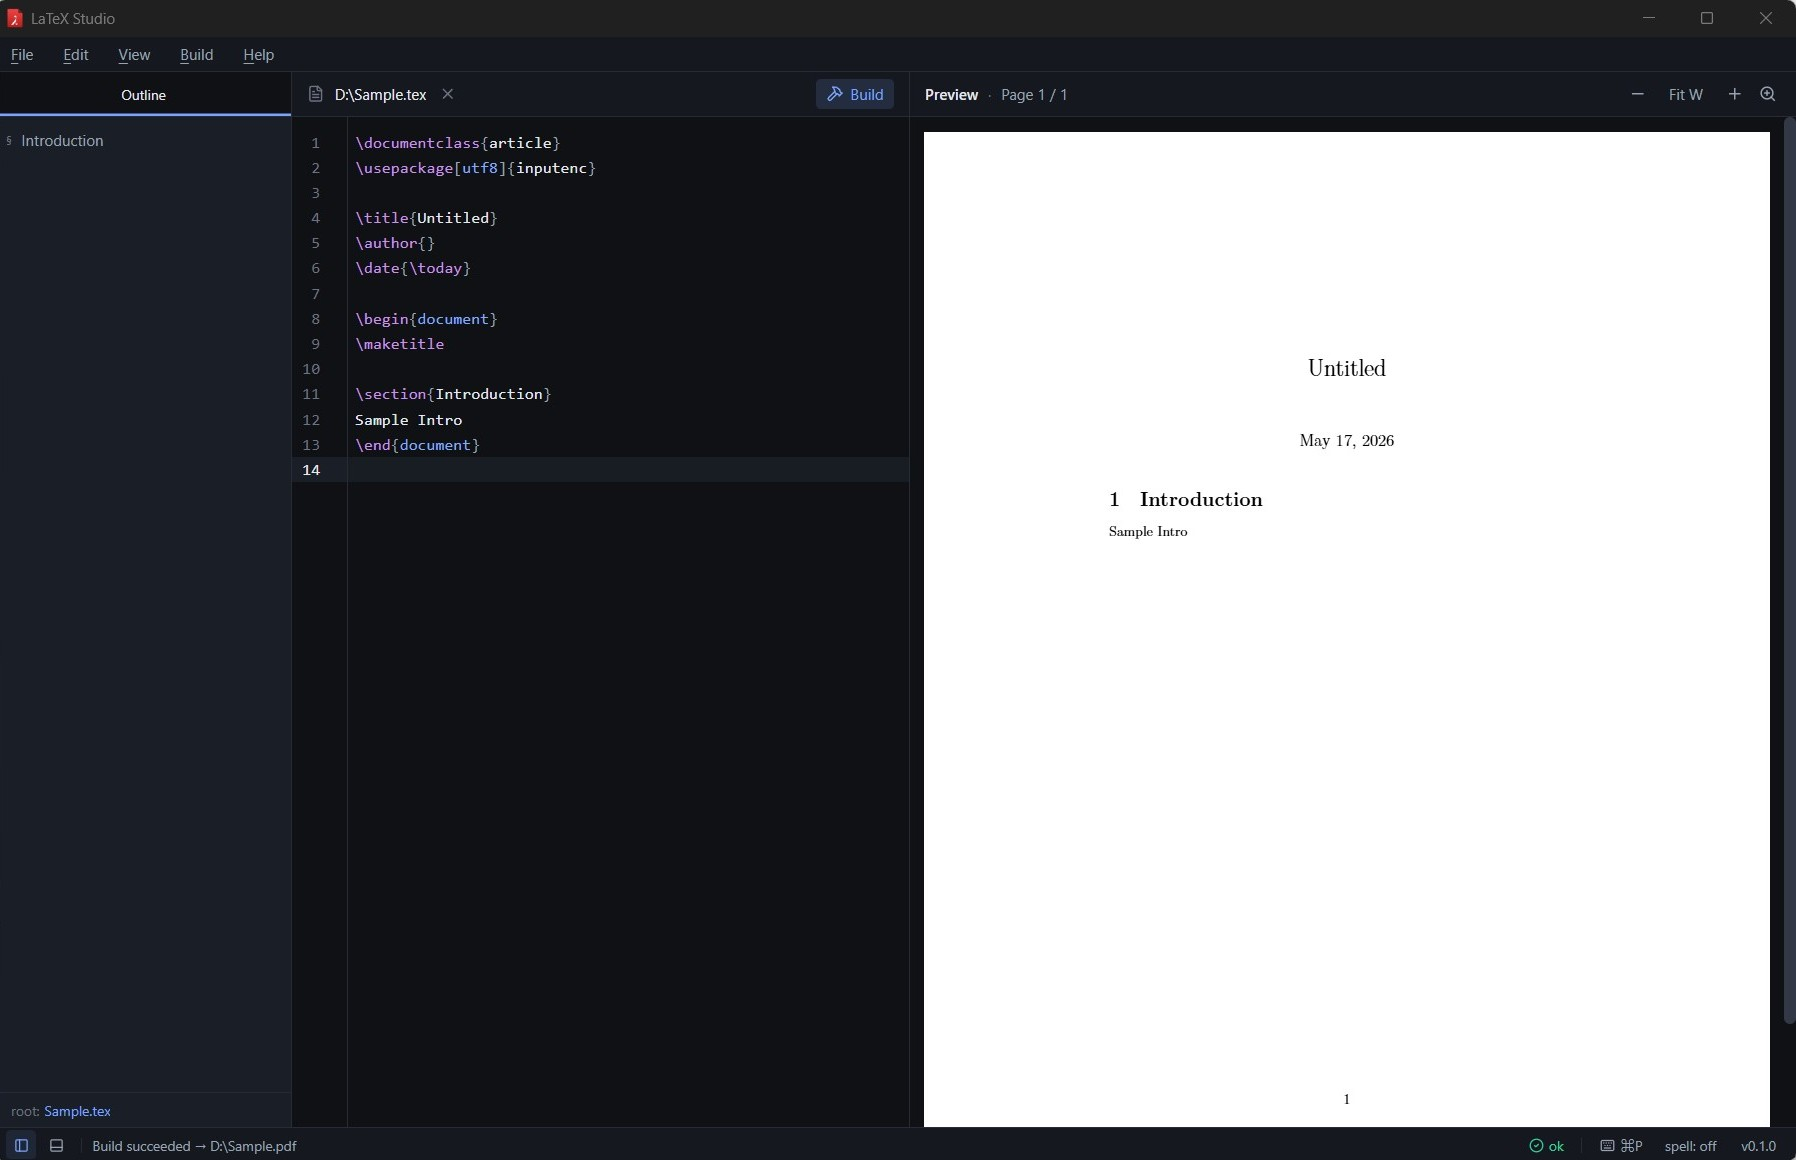
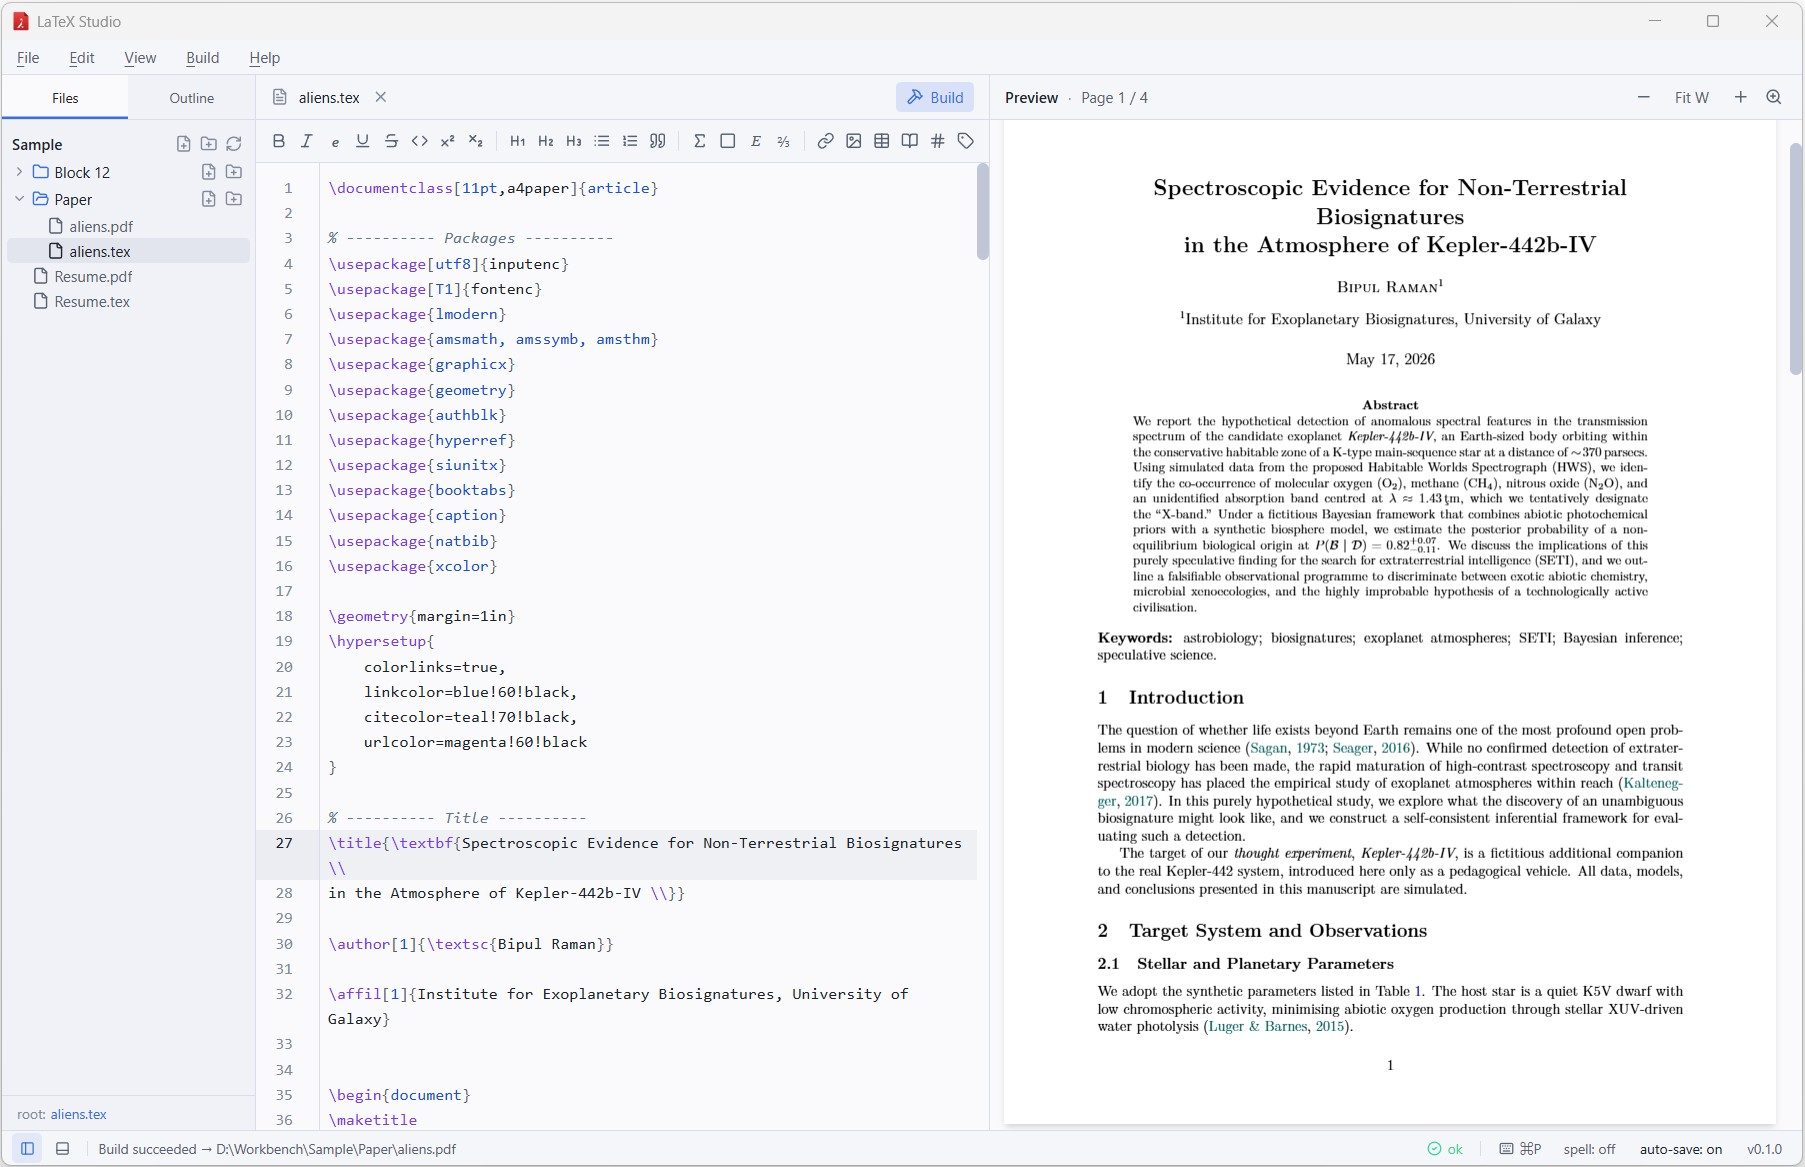
feat: update index.html to enhance description and highlight new features

diff --git a/docs/index.html b/docs/index.html
@@ -6,7 +6,7 @@
     <title>LaTeX Studio — A modern desktop LaTeX editor</title>
     <meta
       name="description"
-      content="LaTeX Studio is a fast, distraction-free desktop LaTeX editor for Windows, macOS and Linux — with built-in PDF preview, SyncTeX, outline navigation, spellcheck, and one-click Tectonic install. Local-first, no telemetry, MIT licensed."
+      content="LaTeX Studio is a fast, distraction-free desktop LaTeX editor for Windows, macOS and Linux — with auto-save, live PDF preview, SyncTeX, a one-click formatting toolbar, outline navigation, spellcheck, polished light &amp; dark themes, and one-click Tectonic install. Local-first, no telemetry, MIT licensed."
     />
     <meta name="author" content="Bipul Raman" />
     <meta name="theme-color" content="#0b0d12" media="(prefers-color-scheme: dark)" />
@@ -15,7 +15,7 @@
     <meta property="og:title" content="LaTeX Studio — A modern desktop LaTeX editor" />
     <meta
       property="og:description"
-      content="Fast, distraction-free desktop LaTeX editor with built-in PDF preview, SyncTeX, outline, and one-click Tectonic install. Local-first, MIT licensed."
+      content="Fast, distraction-free desktop LaTeX editor with auto-save, live PDF preview, SyncTeX, a one-click formatting toolbar, light &amp; dark themes, and one-click Tectonic install. Local-first, MIT licensed."
     />
     <meta property="og:type" content="website" />
     <meta property="og:image" content="./Screenshot.jpg" />
@@ -333,9 +333,9 @@
 
           <p class="mt-6 max-w-2xl mx-auto text-base sm:text-lg leading-relaxed" style="color: var(--fg-muted)">
             LaTeX Studio is a modern, native editor for writing and compiling LaTeX
-            on Windows, macOS and Linux — with a built-in PDF preview, SyncTeX,
-            outline view and one-click Tectonic install. Local-first, no accounts,
-            no telemetry.
+            on Windows, macOS and Linux — with auto-save, live PDF preview, SyncTeX,
+            a one-click formatting toolbar, polished light &amp; dark themes, and
+            one-click Tectonic install. Local-first, no accounts, no telemetry.
           </p>
 
           <div class="mt-9 flex flex-wrap items-center justify-center gap-3">
@@ -361,13 +361,7 @@
 
         <div class="max-w-7xl mx-auto px-6 pb-20 md:pb-28">
           <div class="tilt-wrap">
-            <div id="heroShot" class="tilt relative rounded-xl overflow-hidden ring-soft ring-accent">
-              <div class="hidden sm:flex items-center gap-1.5 px-4 h-9 border-b hairline" style="background: var(--bg-elev)">
-                <span class="h-3 w-3 rounded-full" style="background:#ff5f57"></span>
-                <span class="h-3 w-3 rounded-full" style="background:#febc2e"></span>
-                <span class="h-3 w-3 rounded-full" style="background:#28c840"></span>
-                <span class="ml-3 text-xs font-mono" style="color: var(--fg-subtle)">latex-studio · untitled.tex</span>
-              </div>
+            <div id="heroShot" class="tilt relative rounded-xl overflow-hidden">
               <img src="./Screenshot.jpg"
                    alt="Screenshot of LaTeX Studio showing the outline pane, source editor, and live PDF preview"
                    class="w-full block" loading="eager" />
@@ -424,8 +418,10 @@
             </div>
             <h3 class="font-semibold">Live PDF preview</h3>
             <p class="mt-2 text-sm leading-relaxed" style="color: var(--fg-muted)">
-              A native PDF.js viewer sits next to your source. Zoom, fit-width,
-              page indicator — and the page reloads automatically after every build.
+              A native PDF.js viewer sits next to your source. Zoom, fit-width
+              and page indicator built in — and the page reloads automatically
+              after every build. Click any <code class="font-mono">.pdf</code>
+              in the sidebar to open it directly in the viewer.
             </p>
           </article>
 
@@ -499,8 +495,9 @@
             </div>
             <h3 class="font-semibold">File-system watcher</h3>
             <p class="mt-2 text-sm leading-relaxed" style="color: var(--fg-muted)">
-              External edits to your source folder are picked up instantly.
-              Builds can re-trigger on save so the PDF stays current as you write.
+              External edits to your source folder are picked up instantly,
+              so generated PDFs and content changed by other tools refresh
+              without a manual reload.
             </p>
           </article>
 
@@ -513,6 +510,47 @@
             <p class="mt-2 text-sm leading-relaxed" style="color: var(--fg-muted)">
               Your documents never leave your machine. No analytics, no
               accounts, no network calls — except when you ask for Tectonic.
+            </p>
+          </article>
+
+          <article class="surface shadow-card rounded-xl p-6">
+            <div class="h-10 w-10 rounded-lg grid place-items-center mb-5"
+                 style="background: color-mix(in srgb, var(--accent) 12%, transparent); color: var(--accent)">
+              <svg class="h-5 w-5" viewBox="0 0 24 24" fill="none" stroke="currentColor" stroke-width="2" stroke-linecap="round" stroke-linejoin="round"><polygon points="13 2 3 14 12 14 11 22 21 10 12 10 13 2"/></svg>
+            </div>
+            <h3 class="font-semibold">Auto-save &amp; live build</h3>
+            <p class="mt-2 text-sm leading-relaxed" style="color: var(--fg-muted)">
+              Edits are persisted to disk a second after you stop typing, and the
+              PDF rebuilds shortly after. A smart debounce cancels in-flight builds
+              and skips re-runs when the saved content hasn't changed.
+            </p>
+          </article>
+
+          <article class="surface shadow-card rounded-xl p-6">
+            <div class="h-10 w-10 rounded-lg grid place-items-center mb-5"
+                 style="background: color-mix(in srgb, var(--accent) 12%, transparent); color: var(--accent)">
+              <svg class="h-5 w-5" viewBox="0 0 24 24" fill="none" stroke="currentColor" stroke-width="2" stroke-linecap="round" stroke-linejoin="round"><polyline points="4 7 4 4 20 4 20 7"/><line x1="9" y1="20" x2="15" y2="20"/><line x1="12" y1="4" x2="12" y2="20"/></svg>
+            </div>
+            <h3 class="font-semibold">Formatting toolbar</h3>
+            <p class="mt-2 text-sm leading-relaxed" style="color: var(--fg-muted)">
+              One-click buttons for bold, italic, sections, lists, math, links,
+              images and tables — with a snippet picker for parameterised
+              inserts. Tooltips show the LaTeX each button emits, so
+              non-experts can ship a clean document on day one.
+            </p>
+          </article>
+
+          <article class="surface shadow-card rounded-xl p-6">
+            <div class="h-10 w-10 rounded-lg grid place-items-center mb-5"
+                 style="background: color-mix(in srgb, var(--accent) 12%, transparent); color: var(--accent)">
+              <svg class="h-5 w-5" viewBox="0 0 24 24" fill="none" stroke="currentColor" stroke-width="2" stroke-linecap="round" stroke-linejoin="round"><circle cx="12" cy="12" r="4"/><path d="M12 2v2"/><path d="M12 20v2"/><path d="m4.93 4.93 1.41 1.41"/><path d="m17.66 17.66 1.41 1.41"/><path d="M2 12h2"/><path d="M20 12h2"/><path d="m6.34 17.66-1.41 1.41"/><path d="m19.07 4.93-1.41 1.41"/></svg>
+            </div>
+            <h3 class="font-semibold">Polished light &amp; dark themes</h3>
+            <p class="mt-2 text-sm leading-relaxed" style="color: var(--fg-muted)">
+              First-class light and dark modes with theme-aware syntax
+              highlighting — saturated, high-contrast on white; soft pastels
+              on a dark background. Follow the OS, or pin one from
+              <em>View → Theme</em>.
             </p>
           </article>
         </div>
@@ -545,11 +583,12 @@
           <li class="relative surface shadow-card rounded-xl p-6">
             <div class="absolute -top-3 left-6 h-6 px-2 rounded-full text-[11px] font-mono uppercase tracking-wider flex items-center"
                  style="background: var(--accent); color: white">Step 02</div>
-            <h3 class="mt-3 font-semibold">Build</h3>
+            <h3 class="mt-3 font-semibold">Write</h3>
             <p class="mt-2 text-sm leading-relaxed" style="color: var(--fg-muted)">
-              Press <span class="kbd">F5</span> to compile with your chosen
-              engine. Errors and warnings appear inline with line numbers; the
-              build is cancellable mid-run.
+              Auto-save keeps your work persisted in the background and the PDF
+              rebuilds on its own shortly after you stop typing. Hit
+              <span class="kbd">F5</span> any time to force a build; errors and
+              warnings appear inline with line numbers and the run is cancellable.
             </p>
           </li>
           <li class="relative surface shadow-card rounded-xl p-6">
@@ -591,6 +630,7 @@
               <li class="check-row" style="color: var(--fg-muted)"><svg class="h-4 w-4 mt-0.5" viewBox="0 0 24 24" fill="none" stroke="currentColor" stroke-width="2.4" stroke-linecap="round" stroke-linejoin="round" style="color: #10b981"><path d="M20 6 9 17l-5-5"/></svg><span>Bring any engine: Tectonic, latexmk, MiKTeX, TeX Live</span></li>
               <li class="check-row" style="color: var(--fg-muted)"><svg class="h-4 w-4 mt-0.5" viewBox="0 0 24 24" fill="none" stroke="currentColor" stroke-width="2.4" stroke-linecap="round" stroke-linejoin="round" style="color: #10b981"><path d="M20 6 9 17l-5-5"/></svg><span>MIT licensed, no telemetry, no account</span></li>
               <li class="check-row" style="color: var(--fg-muted)"><svg class="h-4 w-4 mt-0.5" viewBox="0 0 24 24" fill="none" stroke="currentColor" stroke-width="2.4" stroke-linecap="round" stroke-linejoin="round" style="color: #10b981"><path d="M20 6 9 17l-5-5"/></svg><span>Polished dark + light themes</span></li>
+              <li class="check-row" style="color: var(--fg-muted)"><svg class="h-4 w-4 mt-0.5" viewBox="0 0 24 24" fill="none" stroke="currentColor" stroke-width="2.4" stroke-linecap="round" stroke-linejoin="round" style="color: #10b981"><path d="M20 6 9 17l-5-5"/></svg><span>Auto-save &amp; live preview built in</span></li>
             </ul>
           </div>
 